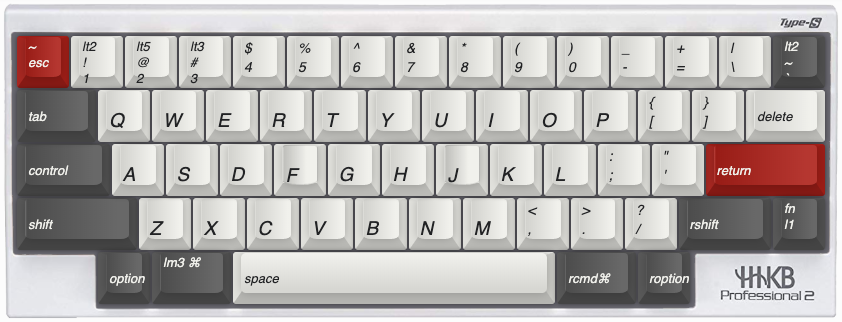
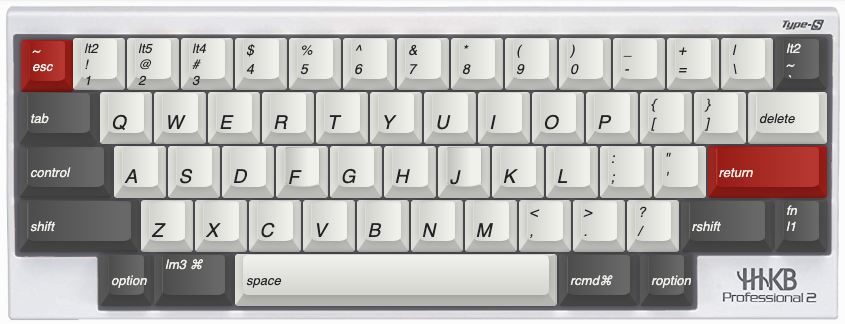
解决Layer3冲突: 对于 Layer 3, 因为有绑定 CMD 键, 不再绑定别的按键.

diff --git a/ydkb/README.md b/ydkb/README.md
@@ -32,7 +32,7 @@ Layer 说明：
 - 长按 ~ (右上角按键) 或 长按数字 1 : 开启 Layer 2，主要是一些操作
 - 长按 ⌘: 修饰键⌘ & 瞬时开启Layer 3, 这一层的按钮必须配合 ⌘
 - 长按 2: 临时切换到鼠标层 Layer 5
-- 长按 3：临时切换到 Layer 3，提供 vi 类光标移动操作
+- 长按 3：临时切换到 Layer 4，提供 vi 类光标移动操作
 - ~ + \ (右上角2个按键)： 切换到鼠标操作层
 
 配列简要说明：
@@ -52,6 +52,10 @@ Layer 2 (长按 ~ 或 长按数字 1 )：
 ![Layer 2](layer2.png)
 
 Layer 3 (只用于 ⌘ + `)：
+
+![Layer 3](layer3.png)
+
+Layer 4 ( vi 模拟操作层)：
 
 ![Layer 3](layer3.png)
 
@@ -95,4 +99,4 @@ Mac上操作需要按以下流程：
 
 - 2020/1/4 支持鼠标层：http://mrw.so/4WyKfp
 - 2020/1/4 使用layer5: http://mrw.so/4zg9WJ
-- 2020/1/5 优化layer5: http://mrw.so/5pU70z
+- 2020/1/5 优化layer5: http://mrw.so/53lxGU
